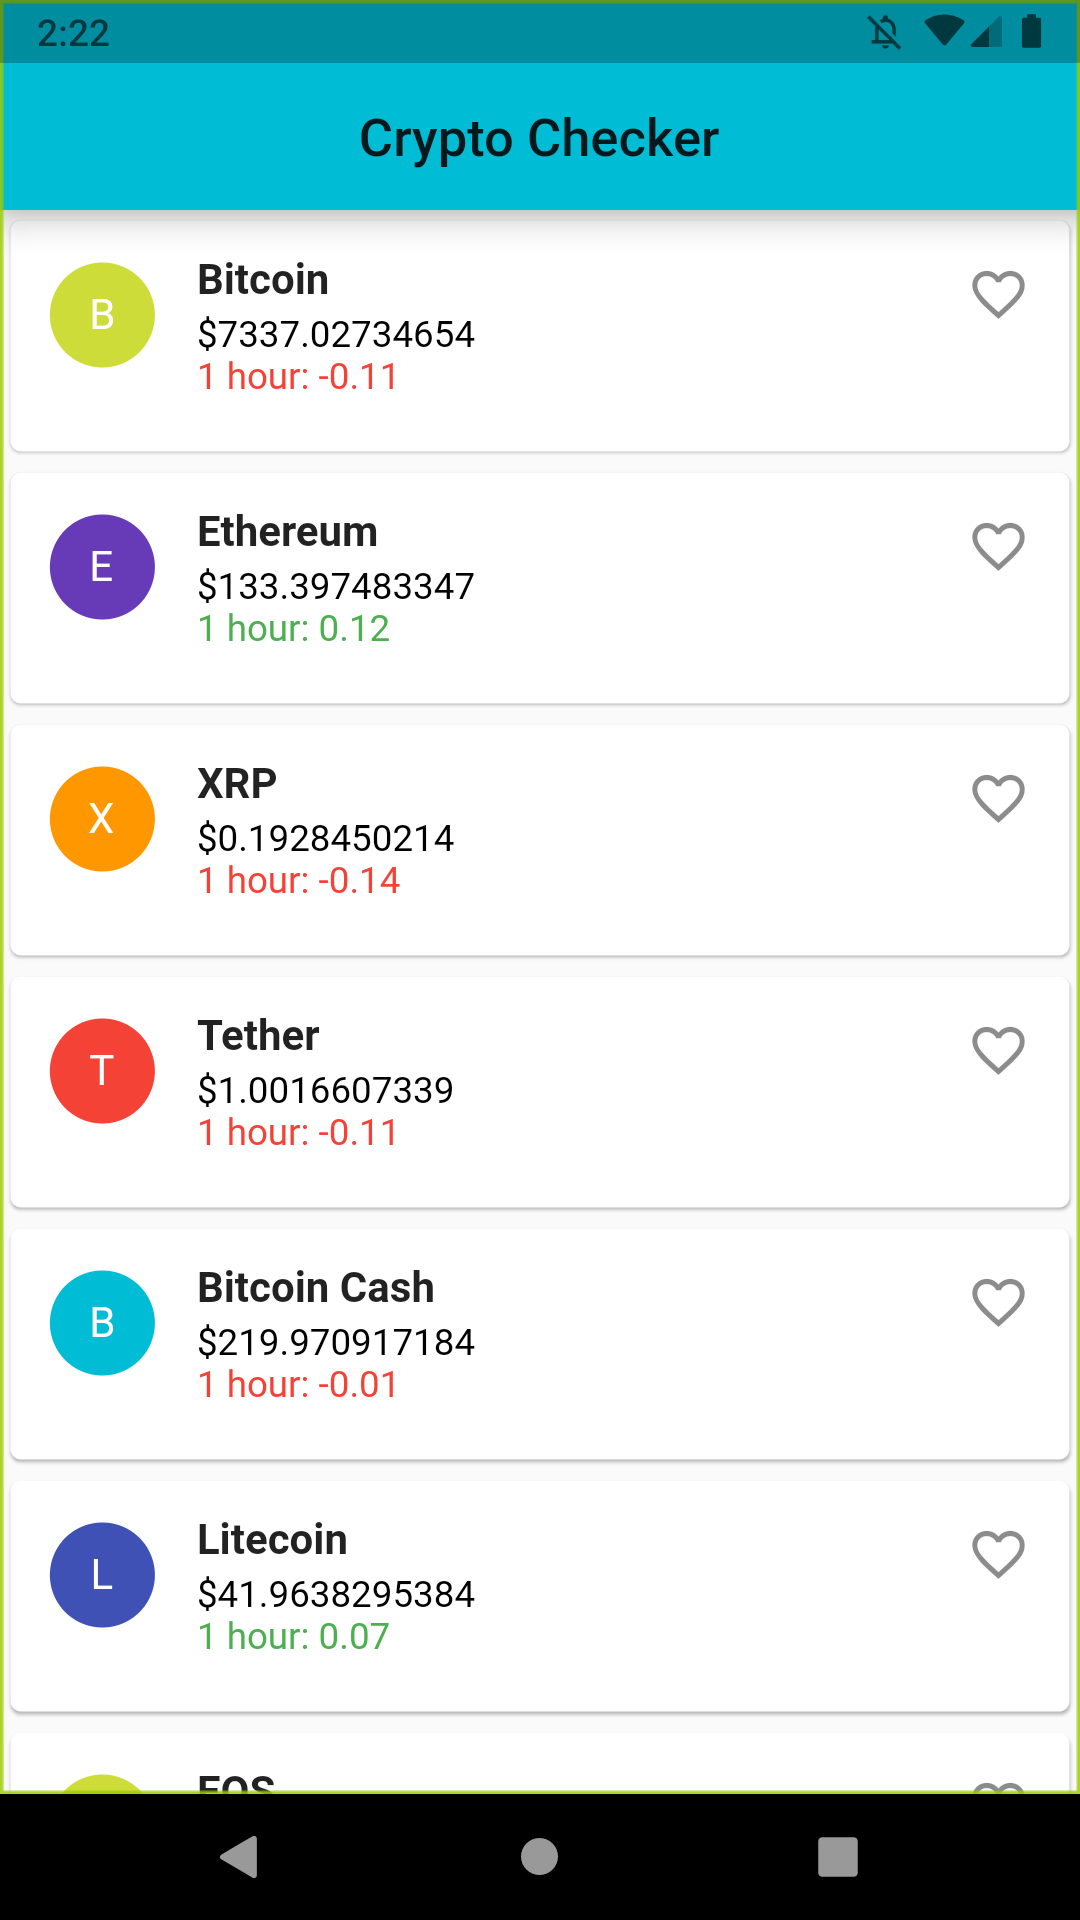
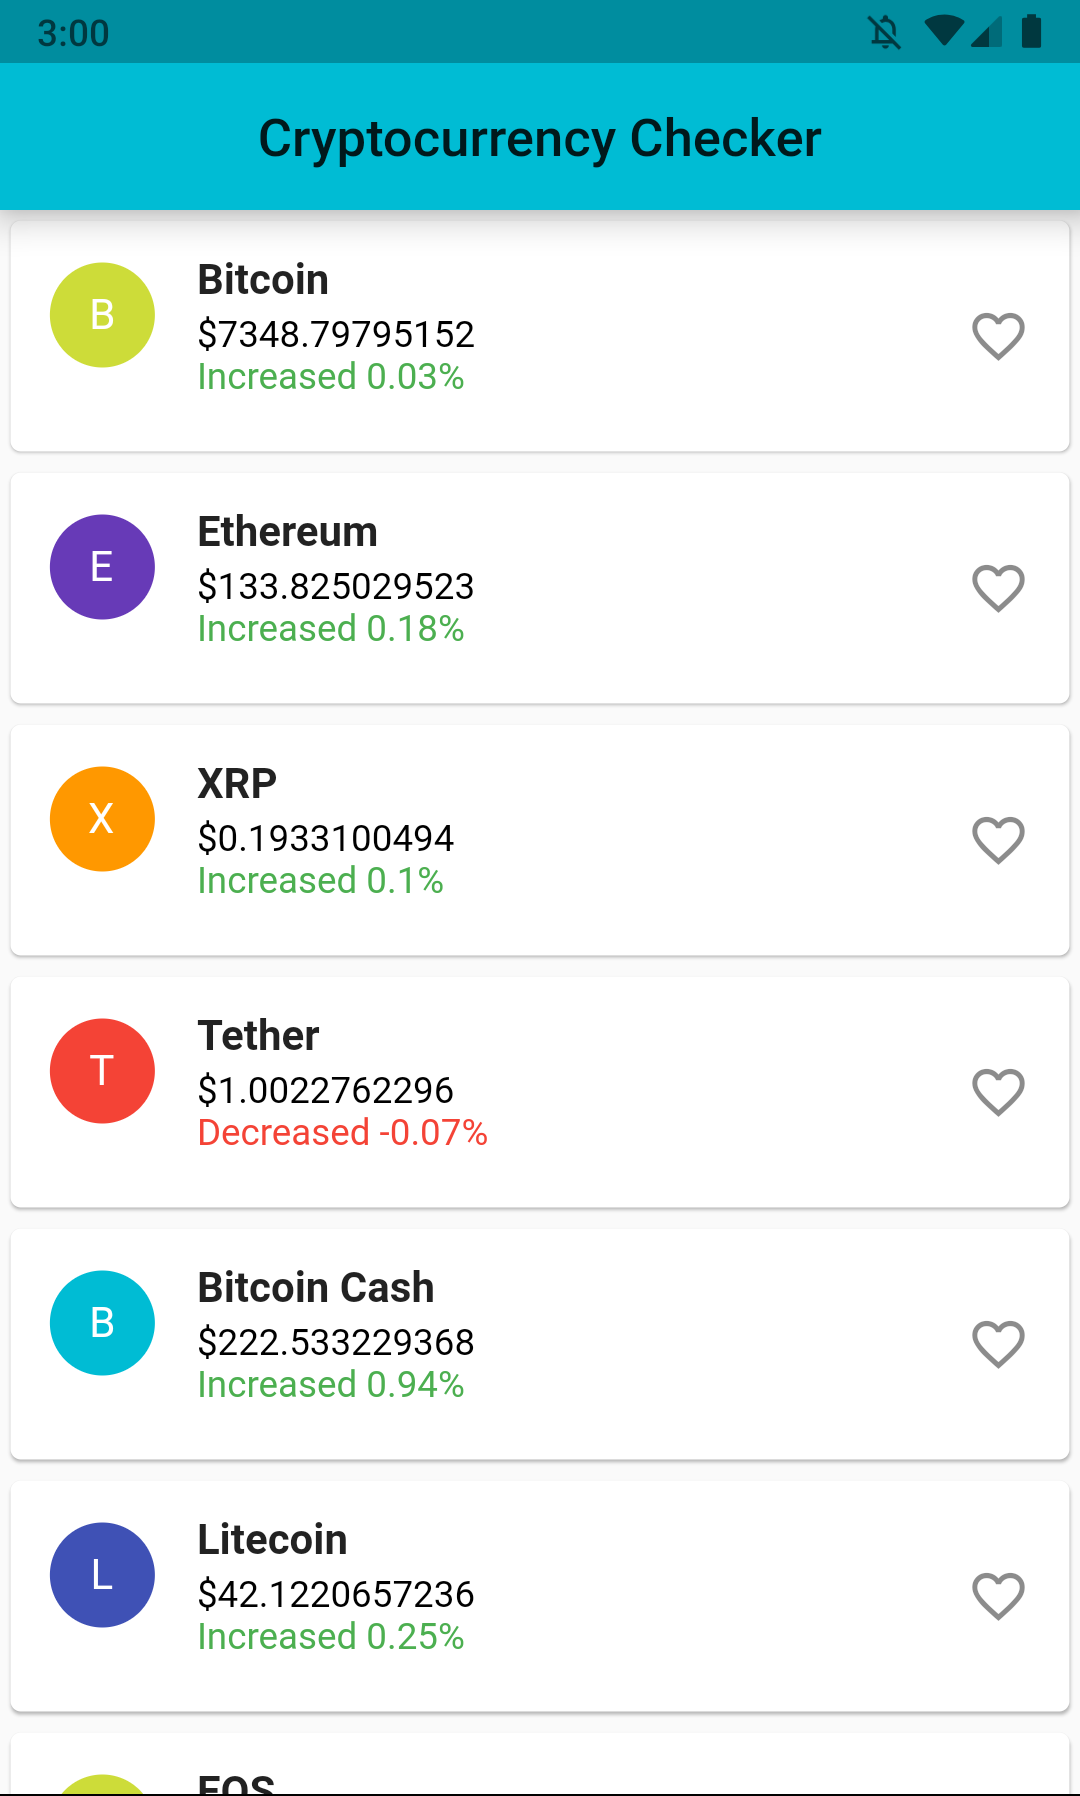
update refresh method

diff --git a/lib/homepage.dart b/lib/homepage.dart
@@ -54,7 +54,10 @@ class _HomePageState extends State<HomePage> {
             _getSubTitle(currency['price_usd'], currency['percent_change_1h']),
         contentPadding: EdgeInsets.symmetric(horizontal: 15),
         isThreeLine: true,
-        trailing: Icon(Icons.favorite_border),
+        trailing: Column(
+          mainAxisAlignment: MainAxisAlignment.center,
+          children: <Widget>[Icon(Icons.favorite_border)],
+        ),
         onLongPress: () {},
       ),
     );
@@ -63,15 +66,16 @@ class _HomePageState extends State<HomePage> {
   Widget _getSubTitle(String priceUsd, String percentageChange) {
     TextSpan priceTextWidget =
         TextSpan(text: "\$$priceUsd\n", style: TextStyle(color: Colors.black));
-    String percentageChangetext = "1 hour: $percentageChange";
     TextSpan percentageChangeWidget;
 
     if (double.parse(percentageChange) > 0) {
       percentageChangeWidget = TextSpan(
-          text: percentageChangetext, style: TextStyle(color: Colors.green));
+          text: "Increased $percentageChange%",
+          style: TextStyle(color: Colors.green));
     } else {
       percentageChangeWidget = TextSpan(
-          text: percentageChangetext, style: TextStyle(color: Colors.red));
+          text: "Decreased $percentageChange%",
+          style: TextStyle(color: Colors.red));
     }
     return RichText(
       text: TextSpan(children: [priceTextWidget, percentageChangeWidget]),

diff --git a/lib/main.dart b/lib/main.dart
@@ -3,9 +3,8 @@ import 'homepage.dart';
 import 'package:http/http.dart' as http;
 import 'dart:convert' as JSON;
 
-void main() async {
+Future<List> main() async {
   List cryptoData = await getCurrencyData();
-  print(cryptoData);
   runApp(MyApp(cryptoData));
 }
 
@@ -21,13 +20,13 @@ class MyApp extends StatelessWidget {
         // home: HomePage(_cryptoData),
         home: Scaffold(
           appBar: AppBar(
-            title: Text("Crypto Checker"),
+            title: Text("Cryptocurrency Checker"),
             centerTitle: true,
             elevation: 10,
           ),
           body: RefreshIndicator(
             child: HomePage(_cryptoData),
-            onRefresh: getCurrencyData,
+            onRefresh: main,
           ),
         ));
   }
